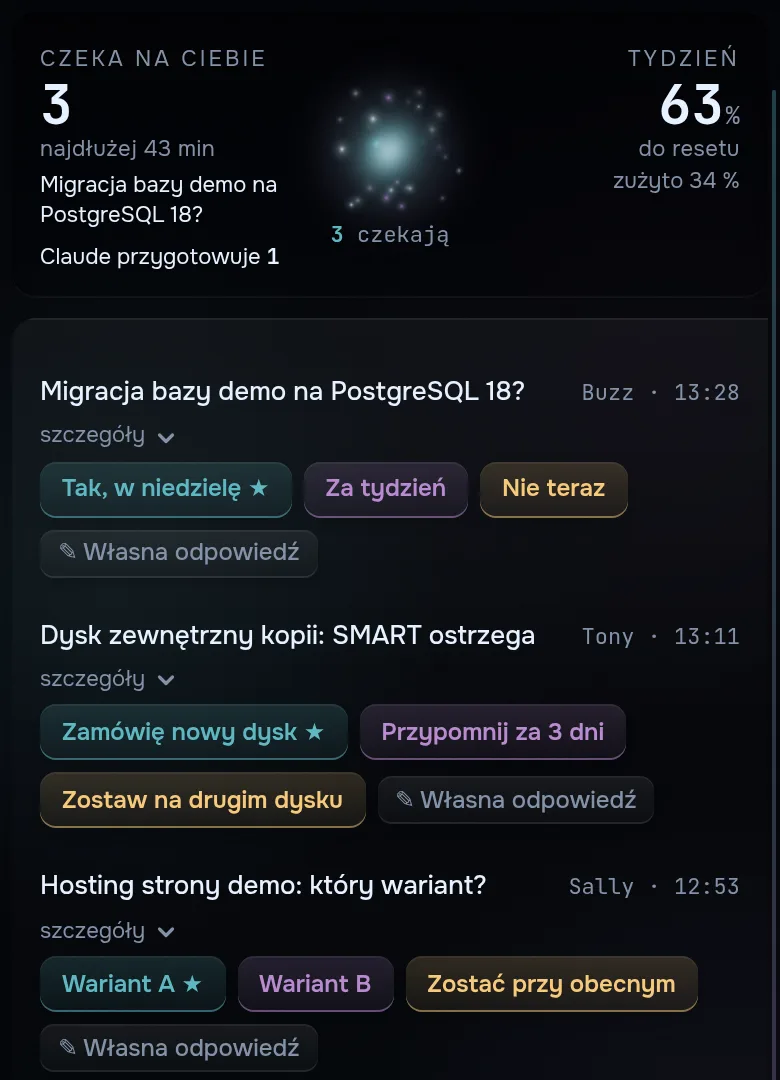
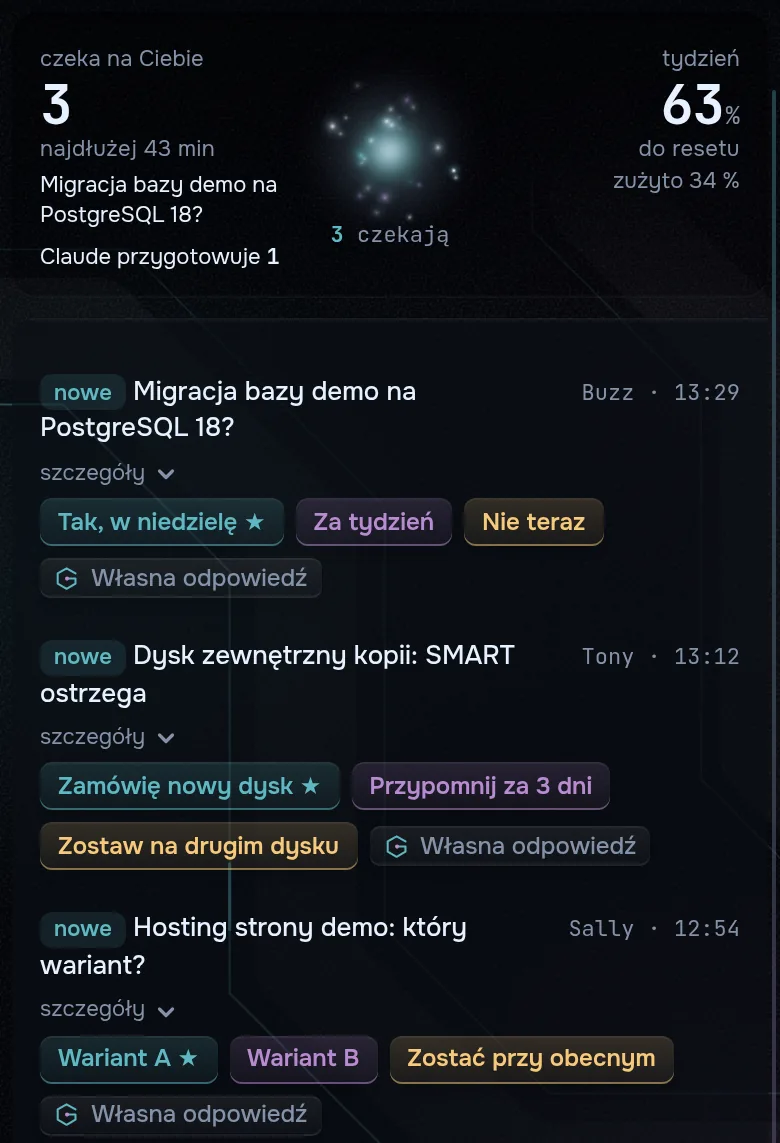
Noc 25.11: panel (modele, decyzje) i pilot (5 ekranów, film) przenagrane; dziennik 3 wpisy (metka «nowe» i ikony stanu panelu z przed/po, schemat rdzenia w tle pilota z przed/po, Face ID przy wejściu z zewnątrz i samoczynne łatki zależności); Tarcza: krótszy title PL (SEO); panel-demo: dwa nowe napi
Nocne-odswiezanie: tak
Kind: feat

diff --git a/tools/panel-demo/rolik_common.py b/tools/panel-demo/rolik_common.py
@@ -20,6 +20,7 @@ PL = [
     ["Решила", "Zdecydowała"], ["Отправила", "Wysłała"], ["Решил", "Zdecydował"], ["Отправил", "Wysłał"],
     ["Лимиты и маршруты", "Limity i trasy"], ["Расход", "Zużycie"], ["Прогоны", "Przebiegi"], ["вызовы", "wywołania"],  # moduł „Modele” rdzenia (14.11)
     ["пн (\\d)", "pn $1"], ["вт (\\d)", "wt $1"], ["ср (\\d)", "śr $1"], ["чт (\\d)", "czw $1"], ["пт (\\d)", "pt $1"], ["сб (\\d)", "sob $1"], ["вс (\\d)", "nd $1"],
+    ["^Кто тратит", "Kto zużywa"], ["Свой ответ", "Własna odpowiedź"],  # 25.11: nowe napisy rdzenia
 ]
 # Funkcje JS (tekst do page.evaluate albo do skryptu startowego).
 TR = """(pl) => { const w = document.createTreeWalker(document.body, NodeFilter.SHOW_TEXT); let n;

diff --git a/tools/odswiez/PLAN.md b/tools/odswiez/PLAN.md
@@ -1,40 +1,42 @@
 # Plan prowadzenia strony (aktualizowany co noc)
 
-Ostatnia noc: 2026-11-21 (dziennik: 3 wpisy; panel agentów przenagrany, 4 kadry: nagłówki bez wersalików, przełącznik motywu, szklany pasek telefonu; głowy bez widocznych zmian)
+Ostatnia noc: 2026-11-25 (dziennik: 3 wpisy; panel: kadry modeli i decyzji przenagrane; pilot: 5 ekranów i film z
+nowym tłem-schematem; głowy bez widocznych zmian; Tarcza: krótszy title PL)
 
 ## Nieaktualne
-- Panel: kadry decyzji (panel-decyzje*), modeli (panel-modele*), okładki agenci/panel i filmy agenci.mp4, panel.mp4
-  mają jeszcze nagłówki wersalikami sprzed 20.11. Przenagrać tak jak 21.11 panel-agenci: `faketime` 13:35, `DARK`,
-  bez pogody (tools/panel-demo/README.md). Grupa „panel” w tabeli odświeżania nie patrzy na gitcloud-core, choć wygląd
-  panelu zmienia się głównie w rdzeniu; dopisać rdzeń (static, gate) do źródeł grupy w host/site-refresh.
+- Panel: okładki agenci/panel i filmy agenci.mp4, panel.mp4 mają jeszcze nagłówki wersalikami sprzed 20.11 i stare
+  etykiety stanu słowami (od 24.11 ikony stanu rdzenia). Przenagrać jak 25.11 kadry modeli: `faketime '<data> 13:35'`,
+  `DARK`, bez pogody (tools/panel-demo/README.md). Grupa „panel” w tabeli odświeżania nie patrzy na gitcloud-core,
+  choć wygląd panelu zmienia się głównie w rdzeniu; dopisać rdzeń (static, gate) do źródeł grupy w host/site-refresh.
+- Tarcza (/bezopasnost): od 22-24.11 jedna lista „Zdarzenia bezpieczeństwa” zamiast czterech dzienników i ikony stanu.
+  Kadry tarcza-* są starsze. Przed nagraniem sprawdzić, czy fake_sec.py pokrywa nowe sekcje (potwierdzenia twarzą,
+  klucz Face ID) danymi przykładowymi; sekcja potwierdzeń dotyka płatności, więc ukryć ją jak ochronę mieszkania.
 - Konsola ISP (public/img/demo): zrzuty z 05.11 w niebieskim motywie „Kolor”. Przenagrać, gdy platforma ISP dostanie
   ciemny motyw zbliżony do panelu; inaczej zostają.
-- Pulpit (pulpit-gitcloud): film pulpit.mp4 nagrany ręcznie, przepisu w repo nie ma. Przenagrać dopiero z przepisem
-  (profil demo pulpitu, wymyślone pliki, bez prawdziwego ekranu). Od 20.11 pulpit ma okno Ustawień, tryb Skupienie,
-  szklane menu i cieńsze ikony.
-- Głowy: od 18-19.11 cień pod szczęką i ciepłe podświetlenie od dołu; w kadrach 360 px prawie niewidoczne. Zmiany
-  głowy z 20.11 to ruch (wzrok, usta) i szybkość; ciemny ton bez zmian. Przenagrać z następną widoczną zmianą.
+- Pulpit (pulpit-gitcloud): film pulpit.mp4 nagrany ręcznie, przepisu w repo nie ma. Od 24.11 pulpit ma okno „Hasła”,
+  własne okna wyboru pliku i druku, nową kartę przeglądarki w stylu GitCloud. Przenagrać dopiero z przepisem
+  (profil demo pulpitu, wymyślone pliki, bez prawdziwego ekranu).
+- Głowy: podświetlenie od dołu mocniejsze od 23.11 (0,9 → 1,6), sprawdzone parą kadrów: w 360 px nadal prawie
+  niewidoczne, więc bez przenagrania. Przenagrać z następną widoczną zmianą (dark i TONE=light).
 
 ## Do pokazania
-- Jasny motyw: głowy mają jasne awatary (agenci/<kto>-light.webp, studio na białym). Wpis „ten sam agent w dwóch
-  motywach”: kadr jasny obok ciemnego; pilot przez render.py, jeśli symulator umie jasny ton.
-- Nowy projekt w katalogu (decyzja właściciela #1312, 13.11): następny projekt z repozytoriów lub Useme, którego
-  jeszcze nie ma na stronie; gałąź + zrzuty na danych przykładowych, PL/EN/RU.
-- Centrum bezpieczeństwa rdzenia (ocena od 0 do 100, „Napraw”, dziennik tarczy): kadr na danych przykładowych. W
-  tools/panel-demo nie ma jeszcze danych tarczy; dopisać je do fake.py jak dla dziennika agentów.
+- Jasny motyw: wpis „ten sam agent w dwóch motywach”: głowa jasna obok ciemnej; pilot w jasnym motywie ma teraz
+  schemat na jasnym papierze (render.py: sprawdzić, czy symulator przełącza ton).
+- Pilot: twarze Tony i Buzz w oknie rozmowy (3.227.2) zamiast starych; scenariusz-glos.txt pokazuje Tony; dodać kadr Buzza.
+- Nowy projekt w katalogu (decyzja właściciela #1312, 13.11): następny projekt z repozytoriów, którego jeszcze nie ma
+  na stronie; gałąź + zrzuty na danych przykładowych, PL/EN/RU. Kandydat: GitCloud OS (instalator, kreator kont).
+- Wyszukiwanie Ctrl+K po danych (decyzje, katalog) i okna Issue/PR GitHub w panelu: kadr na danych przykładowych.
 - Tabele rdzenia (szerokość kolumn myszą, numery stron, panel filtrów): przy nagraniu panelu tabela z filtrami.
 - Nić sprawy w ruchu: pętla kilku sekund (dane w tools/panel-demo/fake_dec.py, PLANS), screencast jak rolik.py.
 - Czat głów na pulpicie: kadr z trzema awatarami na danych przykładowych.
-- Ćwiczenia awarii (serwer z kodu, żywe awarie raz w miesiącu): schemat kroków do strony platformy danych.
 
 ## Nie udało się / ograniczenia
-- Pilot: okno rozmowy (Sally, Tony) i strona „Dźwięk” są od 18.11 w tools/pilot/scenariusz-glos.txt (warsztat strony).
-  Wiersz trybów ze sprawą w toku jeszcze nie występuje w scenariuszu.
+- Pilot: wiersz trybów ze sprawą w toku jeszcze nie występuje w scenariuszu.
 
-## SEO (Marek, obchód 15.11; wszystko poza główną zrobione)
-- Title > 70 znaków: główna PL/EN/RU zostaje, to pozycjonowanie właściciela.
+## SEO (Marek, obchód 22.11)
+- Title > 70 znaków: główna PL/EN/RU zostaje, to pozycjonowanie właściciela. Tarcza PL skrócona 25.11 (69 znaków).
 
 ## Pomysły
-- Krótki film „noc w GitCloud”: co robią zadania nocne (kopie, przegląd kodu, dokumentacja, przenoszenie wspólnego
-  kodu do rdzenia, CI dzień/noc) na danych przykładowych.
+- Krótki film „noc w GitCloud”: co robią zadania nocne (kopie, przegląd kodu, łatki zależności, dokumentacja) na
+  danych przykładowych.
 - Strona Dyżurny admin: przykład grupowania błędów w logach (ślady, serie) jako schemat, bez prawdziwych logów.
